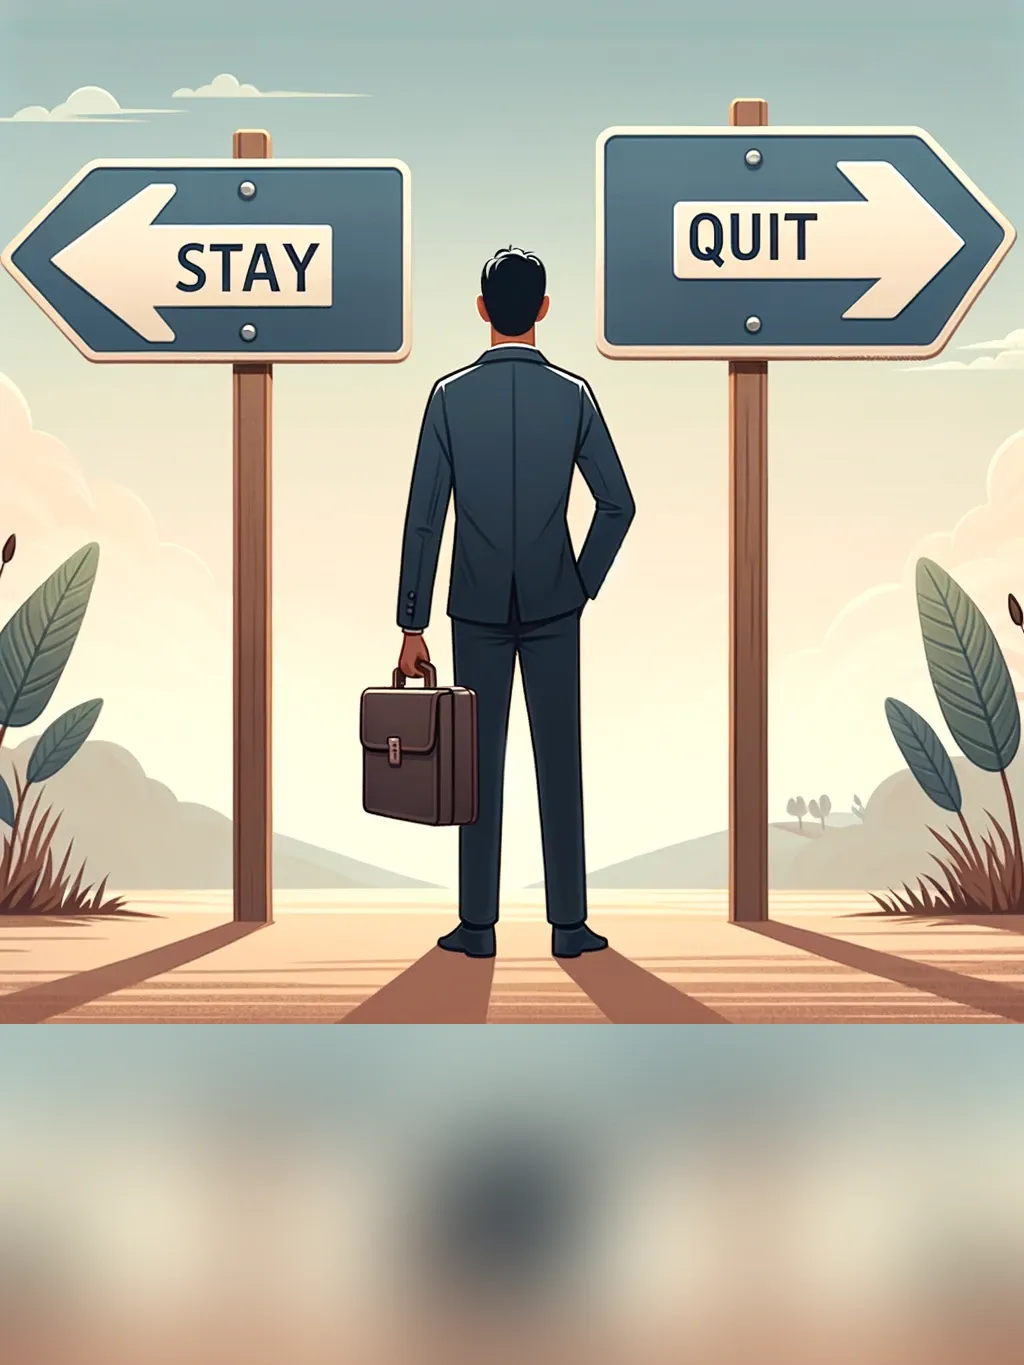
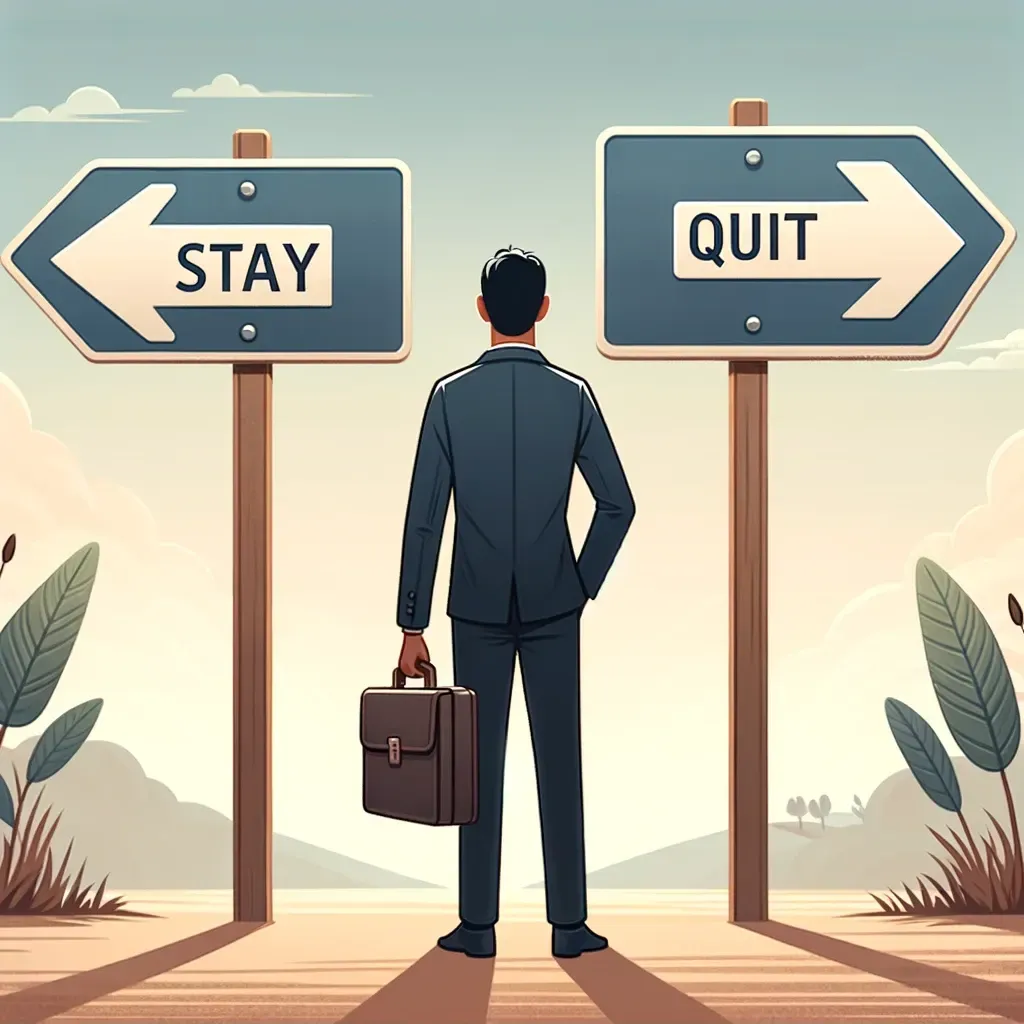
moved image change from GPT to code

diff --git a/chat-gpt/language-cards/add-text-to-images.py b/chat-gpt/language-cards/add-text-to-images.py
@@ -1,5 +1,5 @@
 import json
-from PIL import Image, ImageDraw, ImageFont
+from PIL import Image, ImageFilter, ImageDraw, ImageFont
 
 #https://levelup.gitconnected.com/how-to-properly-calculate-text-size-in-pil-images-17a2cc6f51fd
 def get_text_dimensions(text_string, font):
@@ -48,30 +48,43 @@ def split_string_into_parts(s, n_parts):
     return parts
 
 def add_text_to_image(image_path, output_path, text_sr, text_en, text_ru, font_path):
-    # Load the image
-    image = Image.open(image_path)
+    original_image = Image.open(image_path)
+
+    new_height = int(original_image.height * 4 / 3)
+    new_image = Image.new("RGB", (original_image.width, new_height))
+
+    new_image.paste(original_image, (0, 0))
+
+    reflected_new = original_image.transpose(Image.FLIP_TOP_BOTTOM)
+    reflected_blurred_new = reflected_new.filter(ImageFilter.GaussianBlur(15))
+
+    # Вычисление области, куда будет вставлено размытое отражение
+    reflection_height_new = new_height - original_image.height
+    reflected_blurred_resized_new = reflected_blurred_new.resize((original_image.width, reflection_height_new))
+
+    # Вставка размытого отражения в нижнюю часть нового холста
+    new_image.paste(reflected_blurred_resized_new, (0, original_image.height))
 
     # Initialize the drawing context
-    draw = ImageDraw.Draw(image)
+    draw = ImageDraw.Draw(new_image)
 
     # Create a separate image for the semi-transparent rectangle
-    rect_image = Image.new('RGBA', image.size, (0, 0, 0, 0))
+    rect_image = Image.new('RGBA', new_image.size, (0, 0, 0, 0))
     rect_draw = ImageDraw.Draw(rect_image)
 
     opacity = int(255 * 0.8)
-    text_y = image.height * 3 / 4 - 8;
+    text_y = new_image.height * 3 / 4 - 8
     rect_draw.rounded_rectangle(
-        [8, text_y, image.width - 8, image.height - 8], 
+        [8, text_y, new_image.width - 8, new_image.height - 8], 
         fill=(0, 0, 0, opacity), 
         radius=16
     )
 
     # Blend this rectangle with the base image
-    image.paste(rect_image, (0, 0), rect_image)
+    new_image.paste(rect_image, (0, 0), rect_image)
 
     font_size = 48
     font_sr = ImageFont.truetype(font_path, font_size)
-    text_color = "white"
 
     text_x = 32
     text_y += 16
@@ -84,9 +97,8 @@ def add_text_to_image(image_path, output_path, text_sr, text_en, text_ru, font_p
     # (175, 238, 238, 225) # Бледно-голубой
     # (255, 218, 185, 225) # Пастельный персик
 
-
     text_width, text_height = get_text_dimensions(text_sr, font_sr)
-    if text_width > image.width - 32:
+    if text_width > new_image.width - 32:
         rows.extend(split_string_into_parts(text_sr, 2))
         gaps.extend([(0, font_size + 2), (0, font_size + 2)])
         colors.extend([(175, 238, 238, 225), (175, 238, 238, 225)])
@@ -96,7 +108,7 @@ def add_text_to_image(image_path, output_path, text_sr, text_en, text_ru, font_p
         colors.extend([(175, 238, 238, 225)])
 
     text_width, text_height = get_text_dimensions(text_ru, font_sr)
-    if text_width > image.width - 32:
+    if text_width > new_image.width - 32:
         rows.extend(split_string_into_parts(text_ru, 2))
         gaps.extend([(8, font_size + 2), (0, font_size + 2)])
         colors.extend([(230, 230, 250, 225), (230, 230, 250, 225)])
@@ -106,7 +118,7 @@ def add_text_to_image(image_path, output_path, text_sr, text_en, text_ru, font_p
         colors.extend([(230, 230, 250, 225)])
 
     text_width, text_height = get_text_dimensions(text_en, font_sr)
-    if text_width > image.width - 32:
+    if text_width > new_image.width - 32:
         rows.extend(split_string_into_parts(text_en, 2))
         gaps.extend([(8, font_size + 2), (0, font_size + 2)])
         colors.extend([(255, 218, 185, 225), (255, 218, 185, 225)])
@@ -122,7 +134,7 @@ def add_text_to_image(image_path, output_path, text_sr, text_en, text_ru, font_p
         text_y += bottom
 
     # Save the image
-    image.save(output_path)
+    new_image.save(output_path)
 
 with open('language-images.json', 'r', encoding='utf-8') as file:
     data = json.load(file)
